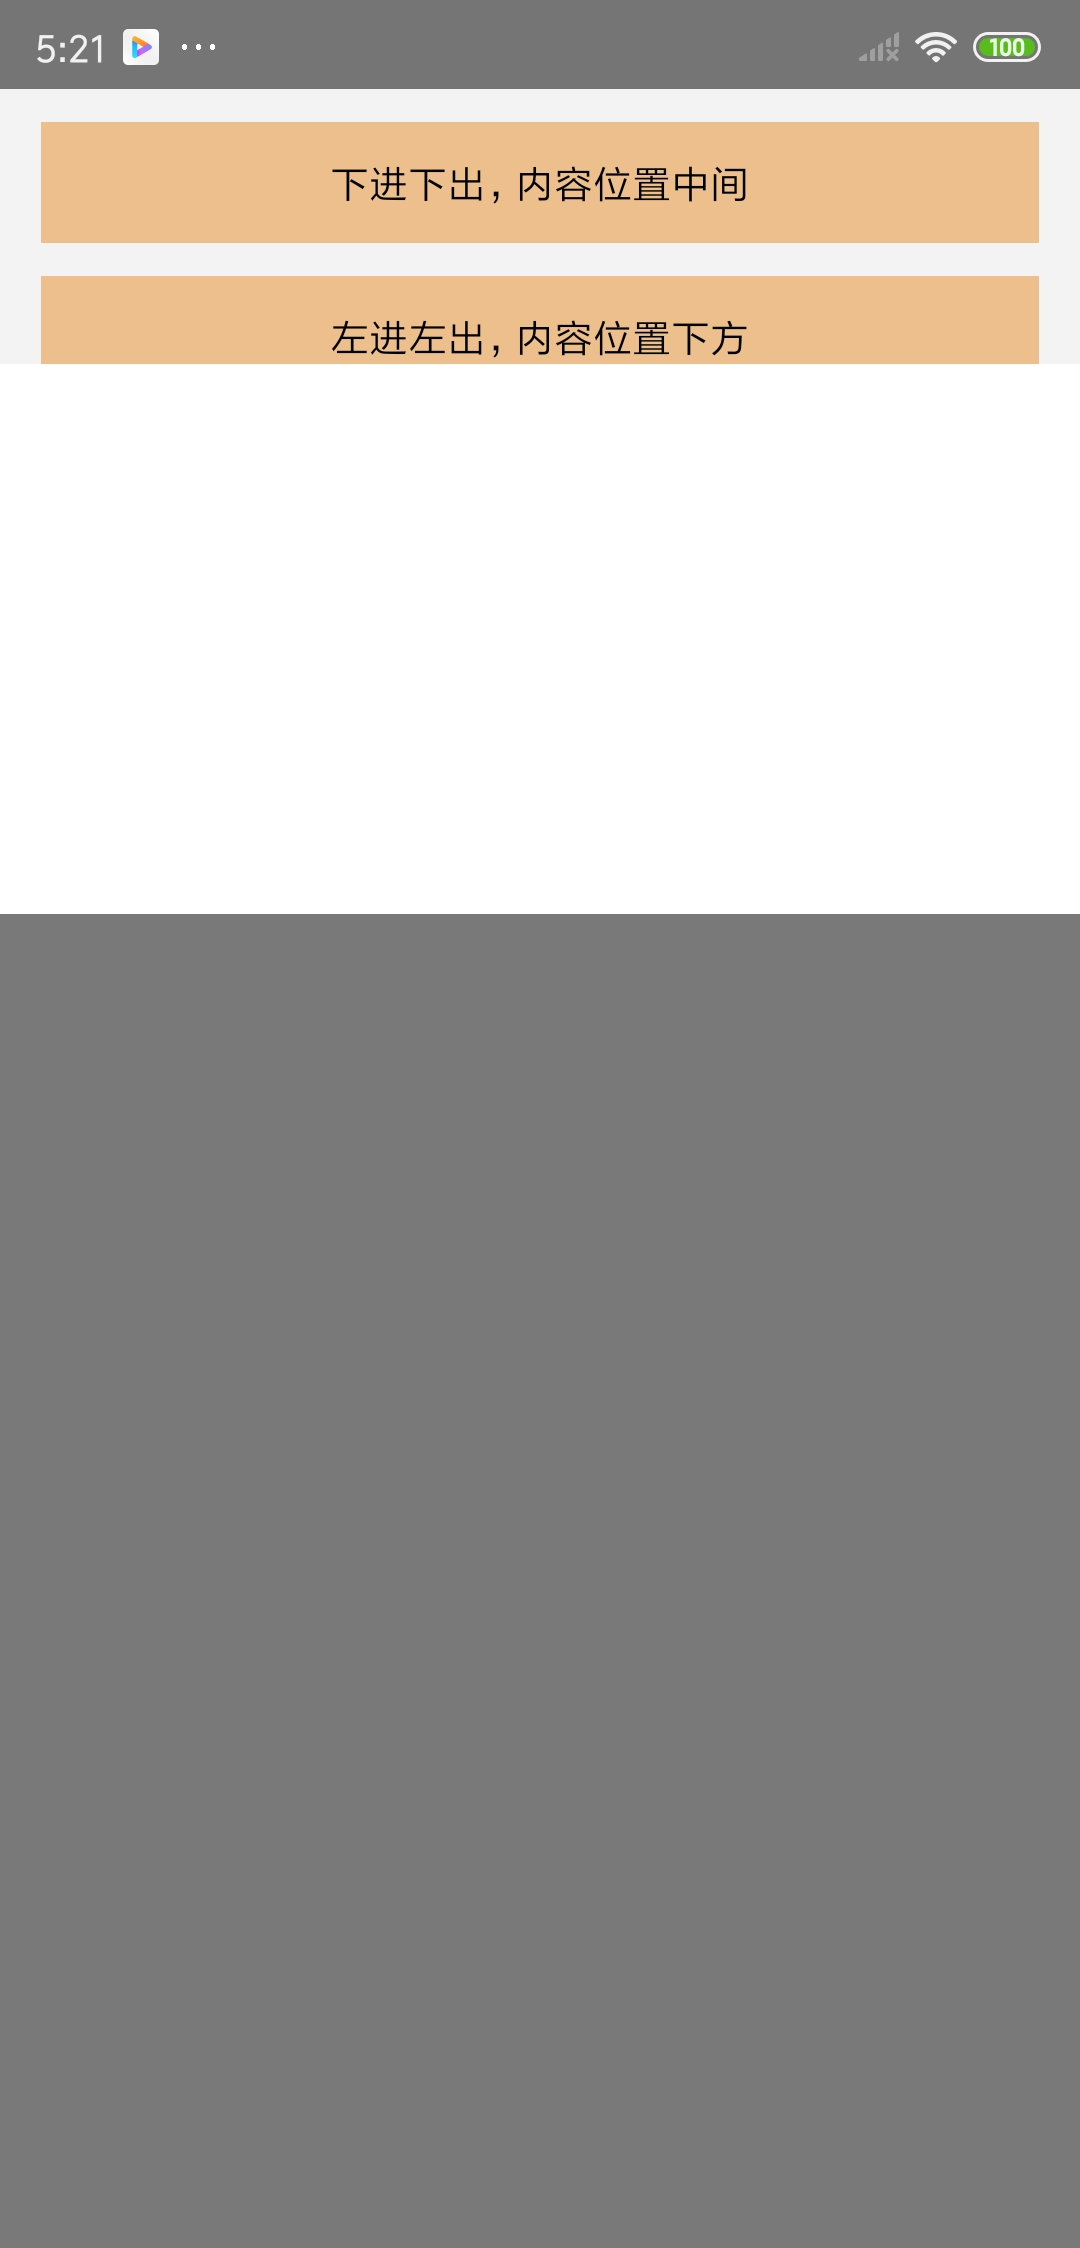
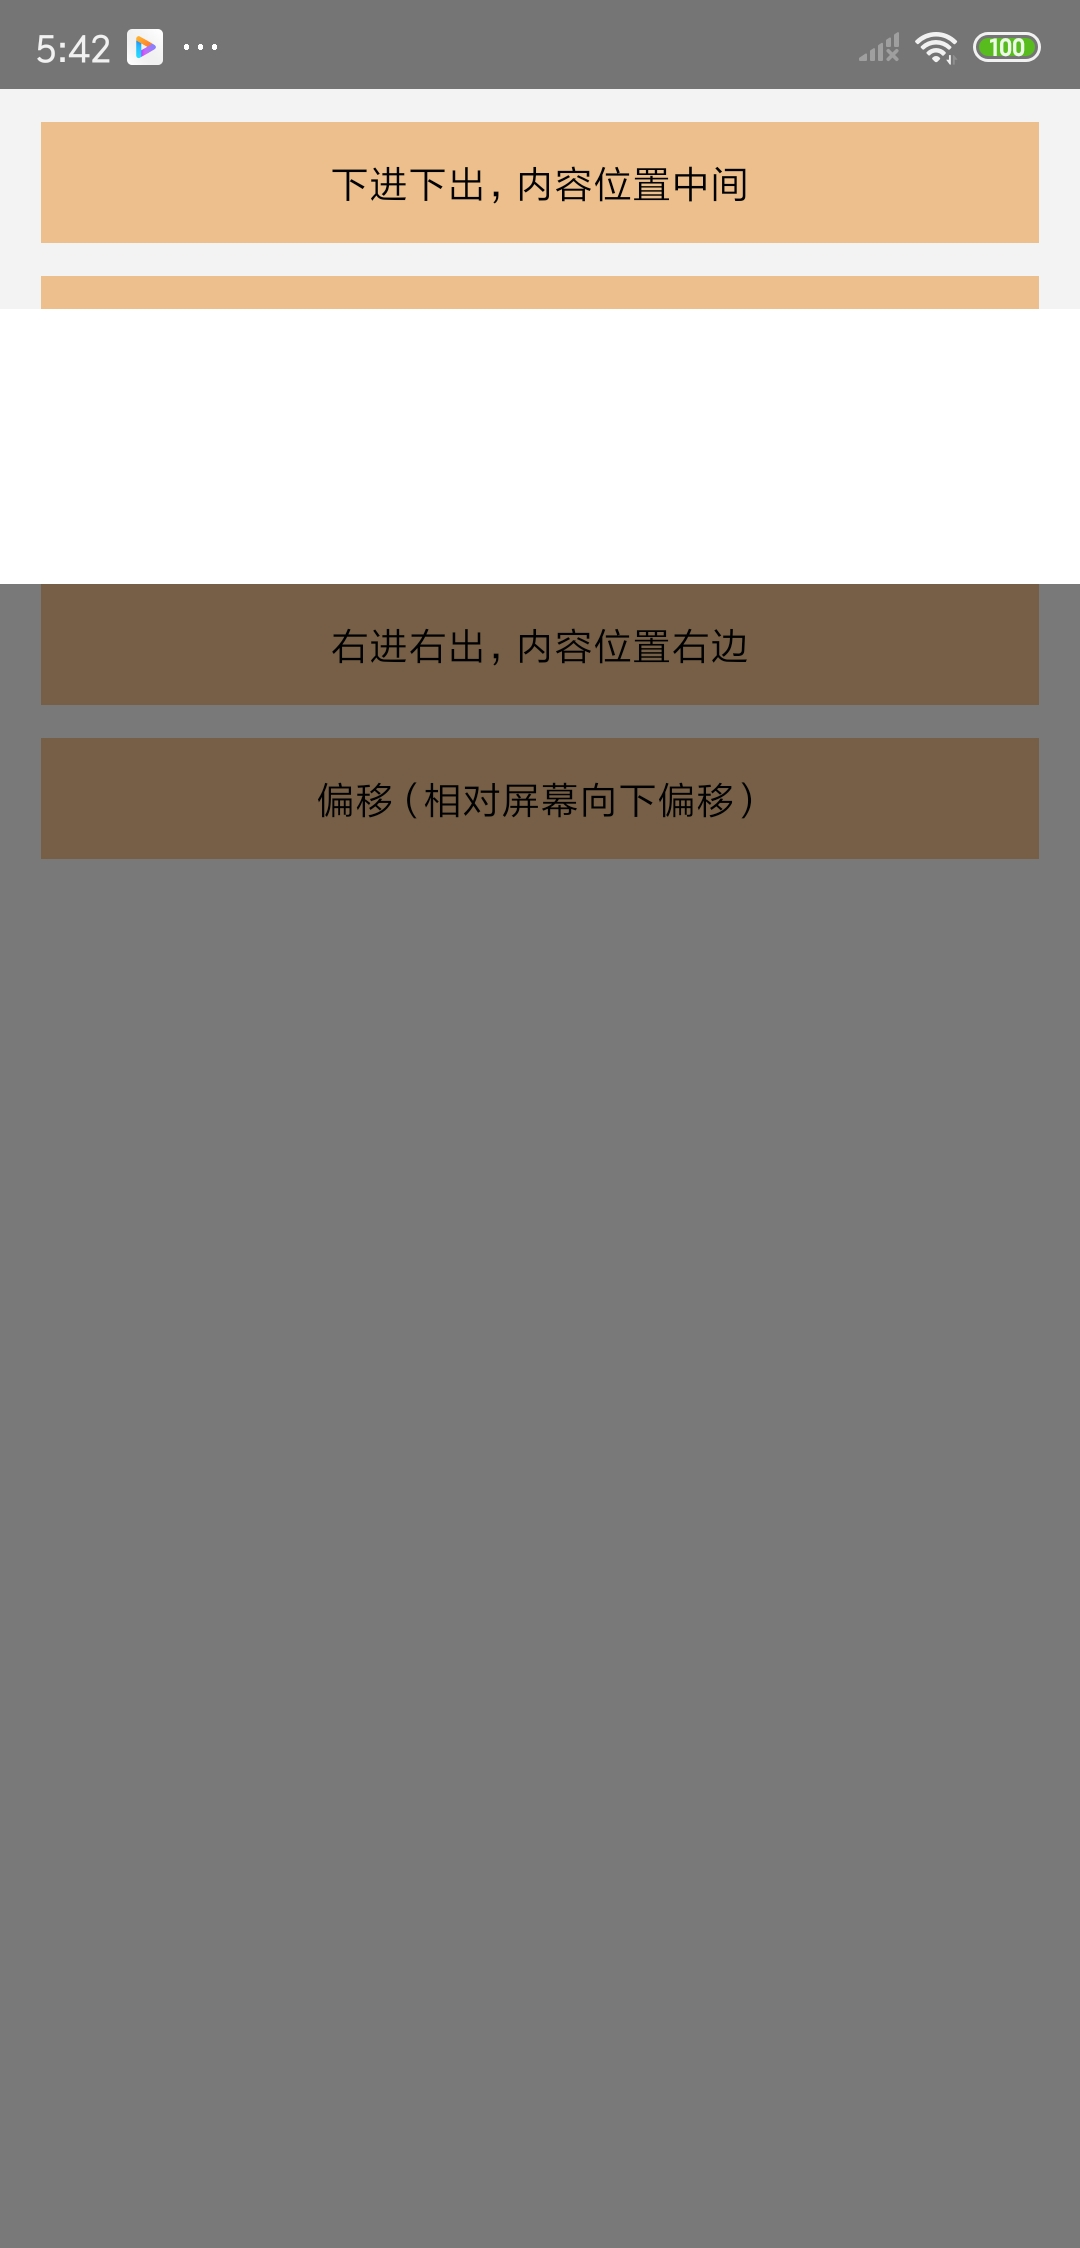
文档

Changed region(s): [[0.0, 0.2491, 1.0, 0.4048], [0.0306, 0.1246, 0.9778, 0.1868], [0.0611, 0.0, 0.1528, 0.0311]]

diff --git a/example/ModalExample.js b/example/ModalExample.js
@@ -117,10 +117,10 @@ export default class ModalExample extends Component {
                   visible={visible5}
                   transition="top-in"
                   position="top"
-                  offset={{ background: { top: 100 } }}
+                  offset={{ background: { top: 100, left: 100, right: 100, bottom: 100 } }}
                   onHide={() => this.onHide(5)}
                 >
-                  <View style={{ width: width, height: 200, backgroundColor: '#FFFFFF' }} />
+                  <View style={{ width: width, height: 100, backgroundColor: '#FFFFFF' }} />
                 </AnimatedModal>
             </ScrollView>
         )

diff --git a/libs/README.md b/libs/README.md
@@ -5,7 +5,7 @@
 ### AnimatedModal
 其实就是一个Modal，但是对react-native提供的Modal进行了封装。
 加入了动画效果、内容位置等功能，使展示效果更完美。
-![]("./imgs/animated_modal.gif")
+<img src="./imgs/animated_modal.gif" alt="默认效果" style="zoom:75%;" />
 
 **支持的动画效果**：
 - 淡入/淡出
@@ -18,23 +18,184 @@
 - 上、下、左、右、中间
 
 **支持的偏移效果**：
-
 - 背景偏移（向上偏移、向下偏移、向左偏移、向右偏移）
 - 内容偏移（暂未开发）
 
+**你可以根据自己的需要，自由组合动画、位置、偏移**
+例如：
+上进上出 + 内容位置右边 + 偏移
+右进右出 + 内容位置下方 + 偏移
+等等......
+
 ----
 ### 实例
-默认效果（动画“下进下出”，内容位置在中间）
+1. 默认效果（动画“下进下出”，内容位置在中间）
+<img src="./imgs/1.jpg" alt="默认效果" style="zoom:20%;" />
 ```typescript
 {/* 默认，下进下出，内容位置中间 */}
 <AnimatedModal
-  visible={visible1}
-  onHide={() => this.onHide(1)}
+    visible={visible1}
+    onHide={() => this.onHide(1)}
 >
 	<View style={{ width: 200, height: 200, backgroundColor: '#FFFFFF' }} />
 </AnimatedModal>
 ```
 
-### ？？？
-现在还在持续添加功能，敬请期待
+2. 动画“左进左出”，内容位置在下方
+<img src="./imgs/2.jpg" alt="默认效果" style="zoom:20%;" />
+```typescript
+{/* 左进左出，内容位置下方 */}
+<AnimatedModal
+  visible={visible2}
+  transition="left-in"
+  position="bottom"
+  onHide={() => this.onHide(2)}
+>
+	<View style={{ width: 200, height: 200, backgroundColor: '#FFFFFF' }} />
+</AnimatedModal>
+```
+
+3. 偏移（相对屏幕向下偏移）
+<img src="./imgs/5.jpg" alt="默认效果" style="zoom:20%;" />
+```typescript
+{/* 左进左出，内容位置下方 */}
+{/* 背景偏移 */}
+<AnimatedModal
+  visible={visible5}
+  transition="top-in"
+  position="top"
+  offset={{ background: { top: 100 } }}
+  onHide={() => this.onHide(5)}
+>
+	<View style={{ width: width, height: 200, backgroundColor: '#FFFFFF' }} />
+</AnimatedModal>
+```
+
+4. 其它效果
+上进上出、内容位置上方（transition="top-in"，position="top"）
+右进右出、内容位置右边（transition="right-in"，position="right"）
+<img src="./imgs/3.jpg" alt="默认效果" style="zoom:20%;" /><img src="./imgs/4.jpg" alt="默认效果" style="zoom:20%;" />
+
+5. 当然你也可以根据自己的需要，自由组合动画、位置、偏移
+
+---
+### 属性
+<table>
+  <tr>
+    <th>props</th>
+    <th>备注</th>
+    <th>type</th>
+    <th>是否必须</th>
+  </tr>
+  <tr>
+    <td>visible</td>
+    <td>弹窗是否展示<br>你也可以通过调用show()/hide()方法控制</td>
+    <td>boolean</td>
+    <td>非必须，默认false</td>
+  </tr>
+  <tr>
+    <td>visibleBackground</td>
+    <td>背景是否展示，若不展示则不会有灰色蒙板</td>
+    <td>boolean</td>
+    <td>非必须，默认true</td>
+  </tr>
+  <tr>
+    <td>transition</td>
+    <td>动画类型</td>
+    <td>"fade" (淡入淡出) |<br> "left-in" (左进左出) |<br> "top-in" (上进上出) |<br> "right-in" ( 右进右出) |<br> "bottom-in" (下进下出)</td>
+    <td>非必须，默认 "bottom-in"</td>
+  </tr>
+  <tr>
+    <td>position</td>
+    <td>内容位置</td>
+    <td>"center" |<br> "left" |<br> "top" |<br> "right" |<br> "bottom"</td>
+    <td>非必须，默认 "center"</td>
+  </tr>
+  <tr>
+    <td>contentWidth</td>
+    <td>内容宽度，如果你已知道内容高度，可以直接传入</td>
+    <td>number</td>
+    <td>非必须</td>
+  </tr>
+  <tr>
+    <td>contentHeight</td>
+    <td>内容高度，如果不传，则会自己计算高度</td>
+    <td>number</td>
+    <td>非必须</td>
+  </tr>
+  <tr>
+    <td>canceledOnTouchOutside</td>
+    <td>点击空白处是否取消</td>
+    <td>boolean</td>
+    <td>非必须，默认true</td>
+  </tr>
+  <tr>
+    <td>onHide</td>
+    <td>弹窗隐藏时的回调</td>
+    <td>function</td>
+    <td>非必须</td>
+  </tr>
+  <tr>
+    <td>offset</td>
+    <td>偏移<br>
+      分为<font color="red">背景偏移</font>(background)和<br>
+      <font color="red">内容偏移</font>(content 暂未开发)
+    </td>
+    <td style="min-width:200px">
+      <font color="red">background</font>?: {<br>
+      &emsp;left?: number,<br>
+      &emsp;top?: number,<br>
+      &emsp;right?: number,<br>
+      &emsp;bottom?: number<br>}<br>
+      <font color="red">content</font>?: {<br>
+      &emsp;left?: number,<br>
+      &emsp;top?: number,<br>
+      &emsp;right?: number,<br>
+      &emsp;bottom?: number<br>}<br>
+    </td>
+    <td>非必须，其中每一个属性都是非必须，如果都不传相当于没有偏移</td>
+  </tr>
+  <tr>
+    <td>type</td>
+    <td>
+      类型<br>
+      modal：通过RN带的Modal来展示；<br>
+      view：通过控件View来展示。
+    </td>
+    <td>"modal" |<br>"view"</td>
+    <td>非必须，默认为"modal"</td>
+  </tr>
+</table>
+关于偏移：
+背景相对于屏幕向左、上、右、下都偏移100px
+内容相对于背景向左、上、右都偏移50px（该功能暂时未开发）
+offset={{
+  background: {
+    left: 100,
+    top: 100,
+    right: 100,
+    bottom: 100,
+  },
+  content: { left: 50, top: 50, right: 50 },
+}}
+效果图如下：
+<img src="./imgs/6.jpg" alt="默认效果" style="zoom:20%;" />
+
+---
+### 方法
+<table>
+  <tr>
+    <th>方法</th>
+    <th>备注</th>
+  </tr>
+  <tr>
+    <td>show</td>
+    <td>展示弹窗</td>
+  </tr>
+  <tr>
+    <td>hide</td>
+    <td>隐藏弹窗</td>
+  </tr>
+</table>
+
 

diff --git a/README.md b/README.md
@@ -1,4 +1,10 @@
 # react-native-wf-common-components
-ReactNative通用组件
+&emsp;ReactNative通用组件：在ReactNative项目开发过程中，经常会碰到一些非常通用的组件，所以这里封装出来使用。
 
-在ReactNative项目开发过程中，经常会碰到一些非常通用的组件，所以这里封装出来使用。
+----
+### AnimatedModal
+更详细的文档[点击这里](https://github.com/wufengyc/react-native-common-components/blob/master/libs/README.md)
+其实就是一个Modal，但是对react-native提供的Modal进行了封装。
+加入了动画效果、内容位置等功能，使展示效果更完美。
+<img src="./libs/imgs/animated_modal.gif" alt="默认效果" style="zoom:75%;" />
+
